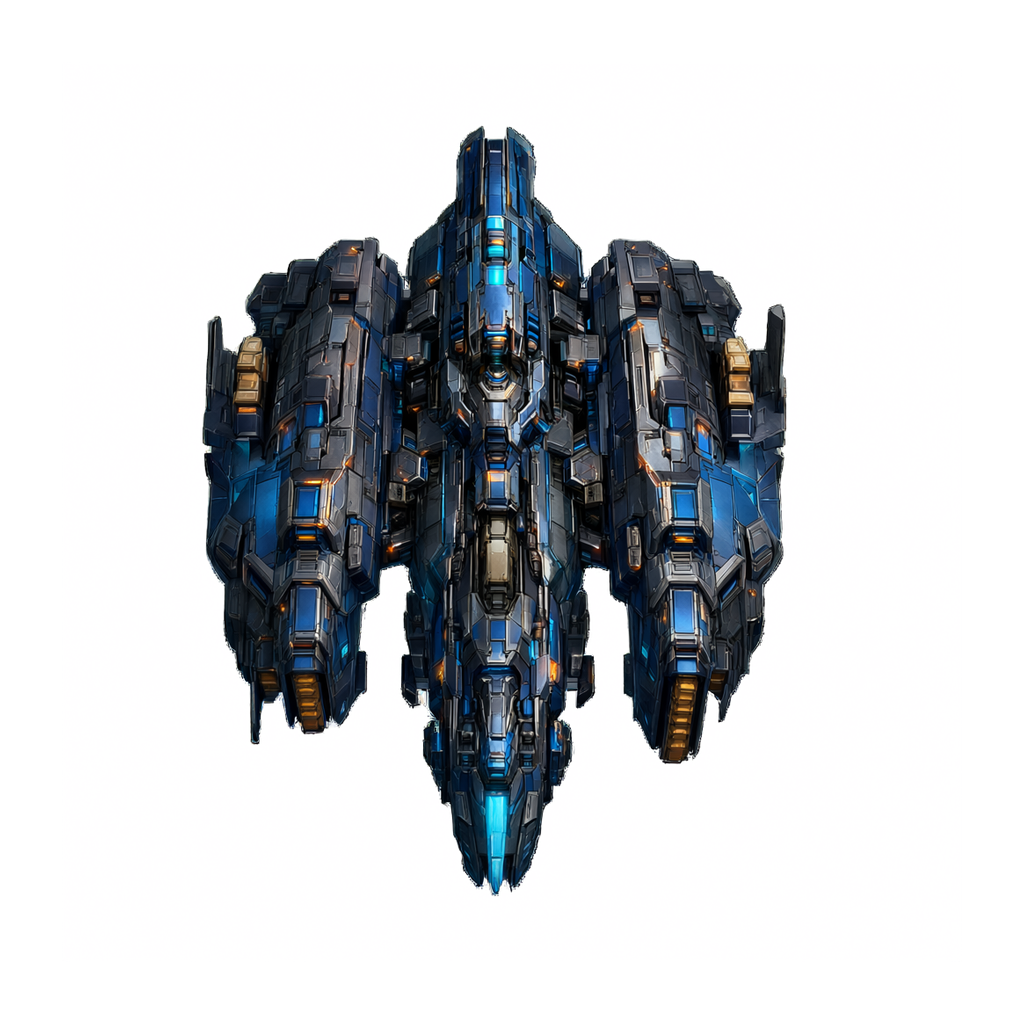
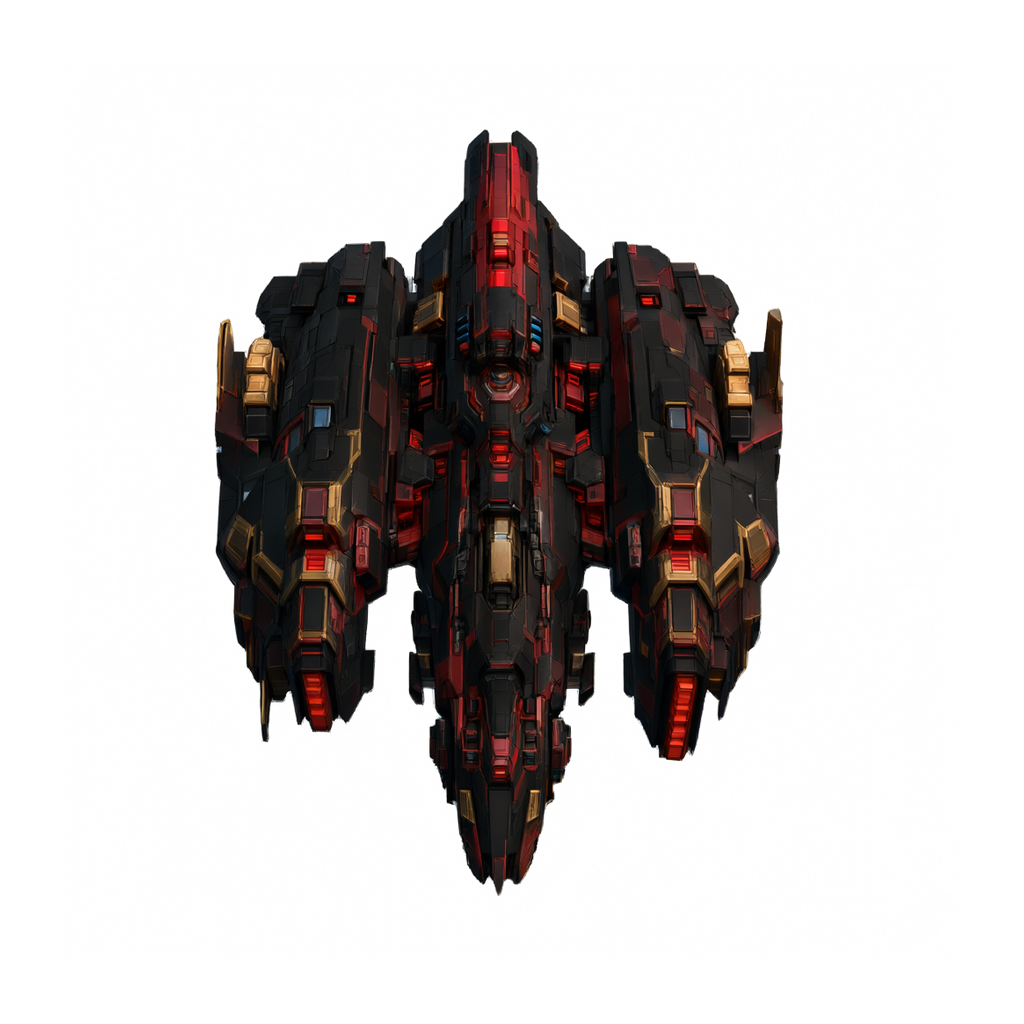
Make elite bomber, mech and seeder visually distinct

Changed region(s): [[0.1875, 0.125, 0.7812, 0.875]]

diff --git a/docs/ENEMY_DESIGN.md b/docs/ENEMY_DESIGN.md
@@ -18,8 +18,8 @@ A unified enemy fleet for the four-stage campaign:
 | 1 | Small Fighter | white / red | black / gold / crimson | fast, small hitbox, rush waves |
 | 2 | Medium Fighter | green / silver | black / dark green / gold | mid-tier escort, aimed shots |
 | 3 | Scout | purple / gold | black / gold / violet-white | circular drone, rings and sweeps |
-| 4 | Bomber | deep blue / cyan | black / blue / orange | heavy, slow, wide bullet walls |
-| 5 | Mech | brass / gunmetal | black / brass / red | armored gunship, dense fire |
+| 4 | Bomber | deep blue / cyan | matte black / crimson / orange | heavy, slow, wide bullet walls |
+| 5 | Mech | brass / gunmetal | white-black command armor / red core | armored gunship, dense fire |
 | 6 | Interceptor | blue / violet | matte black / violet / magenta | fast flanker, converging shots |
 
 ## Files
